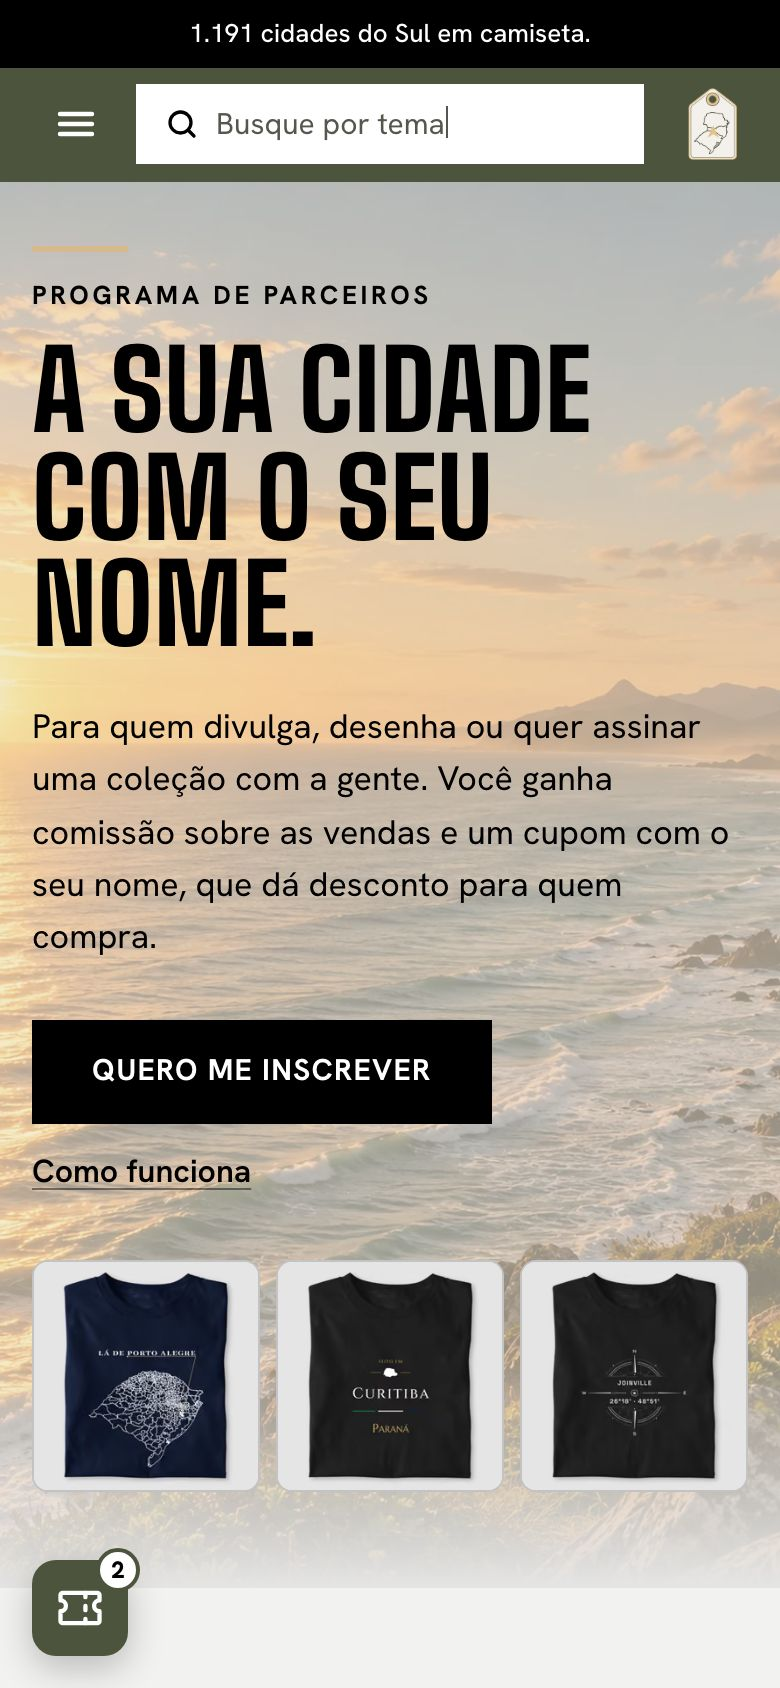
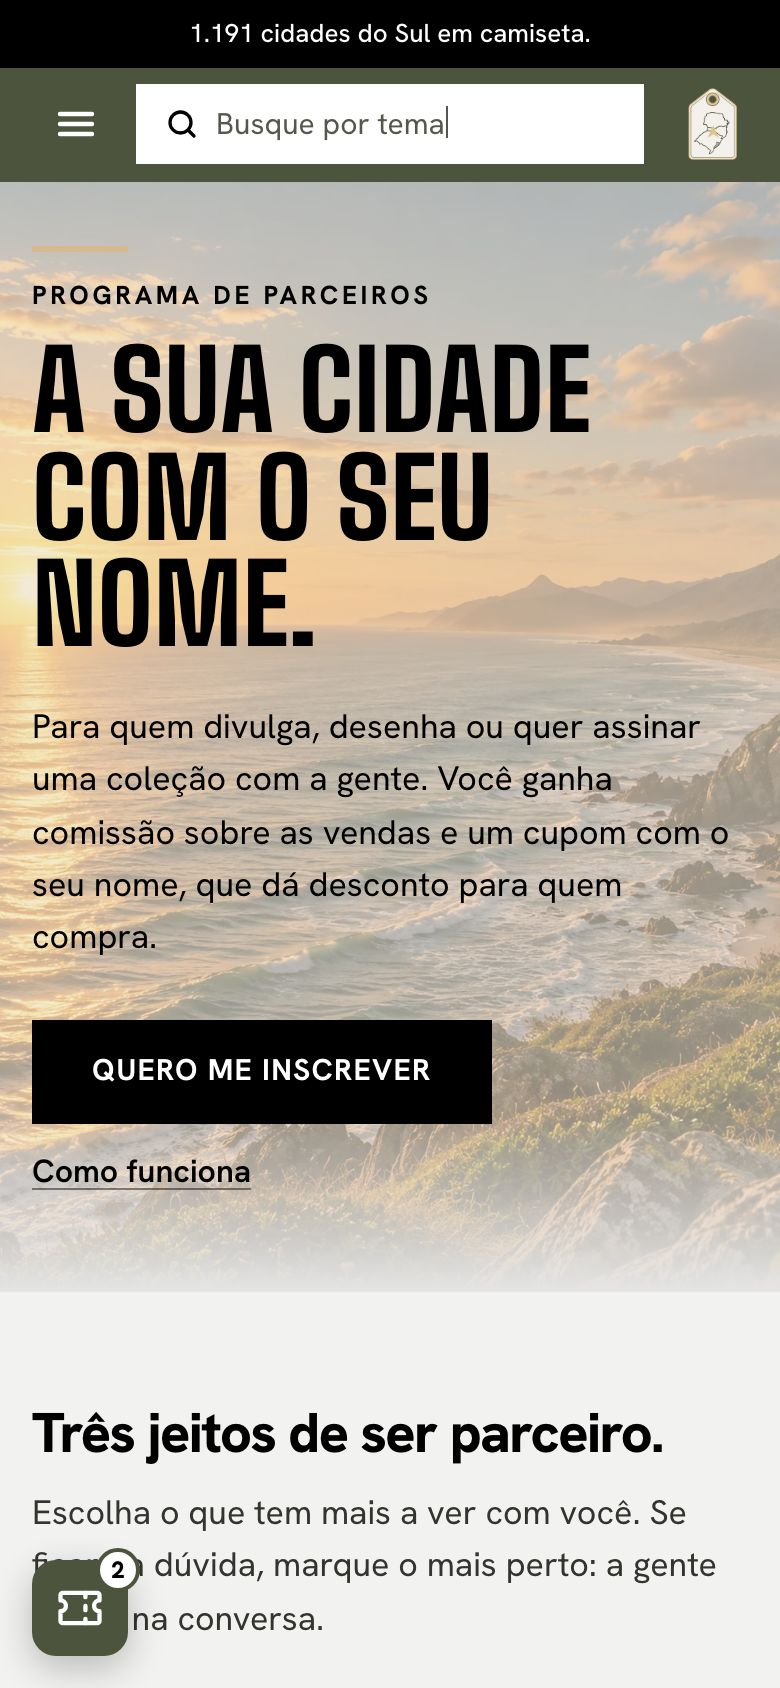
fix(parceiros): números somam as três lojas e o topo fica só com o texto

diff --git a/src/app/[region]/seja-parceiro/page.tsx b/src/app/[region]/seja-parceiro/page.tsx
@@ -32,13 +32,16 @@ export async function generateMetadata({ params }: { params: Promise<{ region: s
 
 type Shot = { src: string; alt: string };
 
-/** The cities with a shirt and the states (and the DF) they are in, across every region the store sells: counted from the catalog, never typed. */
+/**
+ * The cities with a shirt and the states (and the DF) they are in, summed over the three regions: the single store sells Sul, Norte and
+ * Centro-Oeste whatever the site has launched. Counted from the catalog, never typed; a region whose catalog is missing adds nothing.
+ */
 function storeReach() {
   const catalog = getCatalog();
   let cities = 0;
   let states = 0;
   let df = false;
-  for (const region of REGION_SLUGS.filter(isRegionLaunched)) {
+  for (const region of REGION_SLUGS) {
     const covered = catalog.coveredCityIds(region);
     cities += covered.size;
     for (const uf of REGIONS[region].ufs) {
@@ -50,24 +53,23 @@ function storeReach() {
   return { cities, states, df };
 }
 
-/** Real shirts of the region for the hero and the three profiles; a missing pick falls back to another real one, never to a placeholder. */
-function shots(region: RegionSlug): { hero: Shot[]; profile: Record<PartnerProfile, Shot | null> } {
+/** Real shirts of the region for the three profiles, one each; a missing pick falls back to another real one, never to a placeholder. */
+function shots(region: RegionSlug): Record<PartnerProfile, Shot | null> {
   const home = getRegionHome(region);
-  const hero = home.heroFamilies.map((d) => ({ src: d.imageUrl, alt: `Camiseta ${d.familyName} de ${d.cityName}` }));
   const traco = home.showcase?.families.find((f) => f.family.id === "traco");
   const wanted: Record<PartnerProfile, (Shot | undefined)[]> = {
     ambassador: home.fala.slice(0, 2).map((p) => ({ src: p.imageUrl, alt: `Camiseta ${p.name}` })),
     artist: [traco && home.showcase ? { src: traco.primary.imageUrl, alt: `Camiseta ${traco.family.name} de ${home.showcase.city.name}` } : undefined, ...home.recreations.slice(0, 2).map((p) => ({ src: p.imageUrl, alt: `Camiseta ${p.name}` }))],
     collab: [...home.recreations.slice(1, 3), ...home.terra.slice(0, 2)].map((p) => ({ src: p.imageUrl, alt: `Camiseta ${p.name}` })),
   };
-  const used = new Set(hero.map((s) => s.src));
+  const used = new Set<string>();
   const pool = [...home.terra, ...home.feitoParaVoce, ...home.ddd].map((p) => ({ src: p.imageUrl, alt: `Camiseta ${p.name}` }));
   const pick = (list: (Shot | undefined)[]): Shot | null => {
     const found = [...list, ...pool].find((s): s is Shot => !!s && !used.has(s.src)) ?? null;
     if (found) used.add(found.src);
     return found;
   };
-  return { hero, profile: { ambassador: pick(wanted.ambassador), artist: pick(wanted.artist), collab: pick(wanted.collab) } };
+  return { ambassador: pick(wanted.ambassador), artist: pick(wanted.artist), collab: pick(wanted.collab) };
 }
 
 const formAvailable = (): boolean => {
@@ -84,13 +86,13 @@ const Eyebrow = ({ children, className = "" }: { children: React.ReactNode; clas
 
 /**
  * "Seja parceiro": the partner programme (embaixador, artista, collab) and its application form. A coded page, not a CMS hotpage: the form, the
- * FAQ and the numbers have no CMS section. The words live in src/lib/partners/copy.ts; the shirts are the region's own (home data), the cities and
- * states are counted from the catalog. Applications are kept by submitPartnerAction and read in the panel ("Parceiros").
+ * FAQ and the numbers have no CMS section. The words live in src/lib/partners/copy.ts; the shirts of the profiles are the region's own (home data), the
+ * cities and states are counted from the catalog of the three regions. Applications are kept by submitPartnerAction and read in the panel ("Parceiros").
  */
 export default async function PartnerPage({ params }: { params: Promise<{ region: string }> }) {
   const { region } = await params;
   if (!isRegionSlug(region) || !isRegionLaunched(region)) notFound();
-  const { hero, profile } = shots(region);
+  const profile = shots(region);
   const reach = storeReach();
   const heroPhoto = usableBannerAsset("hero", bannerFor(region, "hero"));
   const campaignPhoto = usableBannerAsset("campaign", bannerFor(region, "campaign"));
@@ -106,35 +108,23 @@ export default async function PartnerPage({ params }: { params: Promise<{ region
     <>
       <section aria-labelledby="partner-title" className="relative isolate">
         {heroPhoto && <RegionalPhotoSection asset={heroPhoto} priority />}
-        <div className="wrap pb-12 pt-8 lg:pb-20 lg:pt-14">
-          <div className="grid gap-8 lg:grid-cols-12 lg:items-center lg:gap-8">
-            <div className="lg:col-span-7">
-              <span aria-hidden="true" className="mb-3 block h-[3px] w-12 bg-region-accent lg:mb-4" />
-              <Eyebrow className="regional-caption">{HERO.eyebrow}</Eyebrow>
-              {/* The display face of .t-display, spelled out: that class is unlayered and would override the smaller desktop size this two-line title needs. */}
-              <h1 id="partner-title" className="mt-3 font-display text-[clamp(3.4rem,14vw,7rem)] font-extrabold uppercase leading-[0.98] tracking-[0.004em] [overflow-wrap:break-word] [text-wrap:balance] lg:text-[clamp(4rem,6.6vw,6.25rem)]">
-                {titleLines.map((line, i) => (
-                  <Fragment key={i}>
-                    {i > 0 && <br />}
-                    {line}
-                  </Fragment>
-                ))}
-              </h1>
-              <p className="t-body mt-5 max-w-lg">{HERO.body}</p>
-              <div className="mt-7 flex flex-wrap items-center gap-x-6 gap-y-3">
-                <a href="#inscricao" className="btn">{HERO.cta}</a>
-                <a href="#como-funciona" className="link-static font-semibold text-ink decoration-region-primary decoration-2">{HERO.secondary}</a>
-              </div>
+        <div className="wrap pb-12 pt-8 lg:pb-24 lg:pt-16">
+          <div className="max-w-4xl">
+            <span aria-hidden="true" className="mb-3 block h-[3px] w-12 bg-region-accent lg:mb-4" />
+            <Eyebrow className="regional-caption">{HERO.eyebrow}</Eyebrow>
+            <h1 id="partner-title" className="t-display mt-3">
+              {titleLines.map((line, i) => (
+                <Fragment key={i}>
+                  {i > 0 && <br />}
+                  {line}
+                </Fragment>
+              ))}
+            </h1>
+            <p className="t-body mt-5 max-w-lg">{HERO.body}</p>
+            <div className="mt-7 flex flex-wrap items-center gap-x-6 gap-y-3">
+              <a href="#inscricao" className="btn">{HERO.cta}</a>
+              <a href="#como-funciona" className="link-static font-semibold text-ink decoration-region-primary decoration-2">{HERO.secondary}</a>
             </div>
-            {hero.length > 0 && (
-              <ul className="grid grid-cols-3 gap-2 sm:gap-3 lg:col-span-5" aria-label="Camisetas da Use Origens">
-                {hero.map((s, i) => (
-                  <li key={s.src} className={`settle settle-${i + 1} overflow-hidden rounded-lg border border-black/15 bg-ground`}>
-                    <ProductPhoto src={s.src} alt={s.alt} sizes="(min-width: 1024px) 13vw, 31vw" priority={i < 2} className="photo-contain" />
-                  </li>
-                ))}
-              </ul>
-            )}
           </div>
         </div>
       </section>
